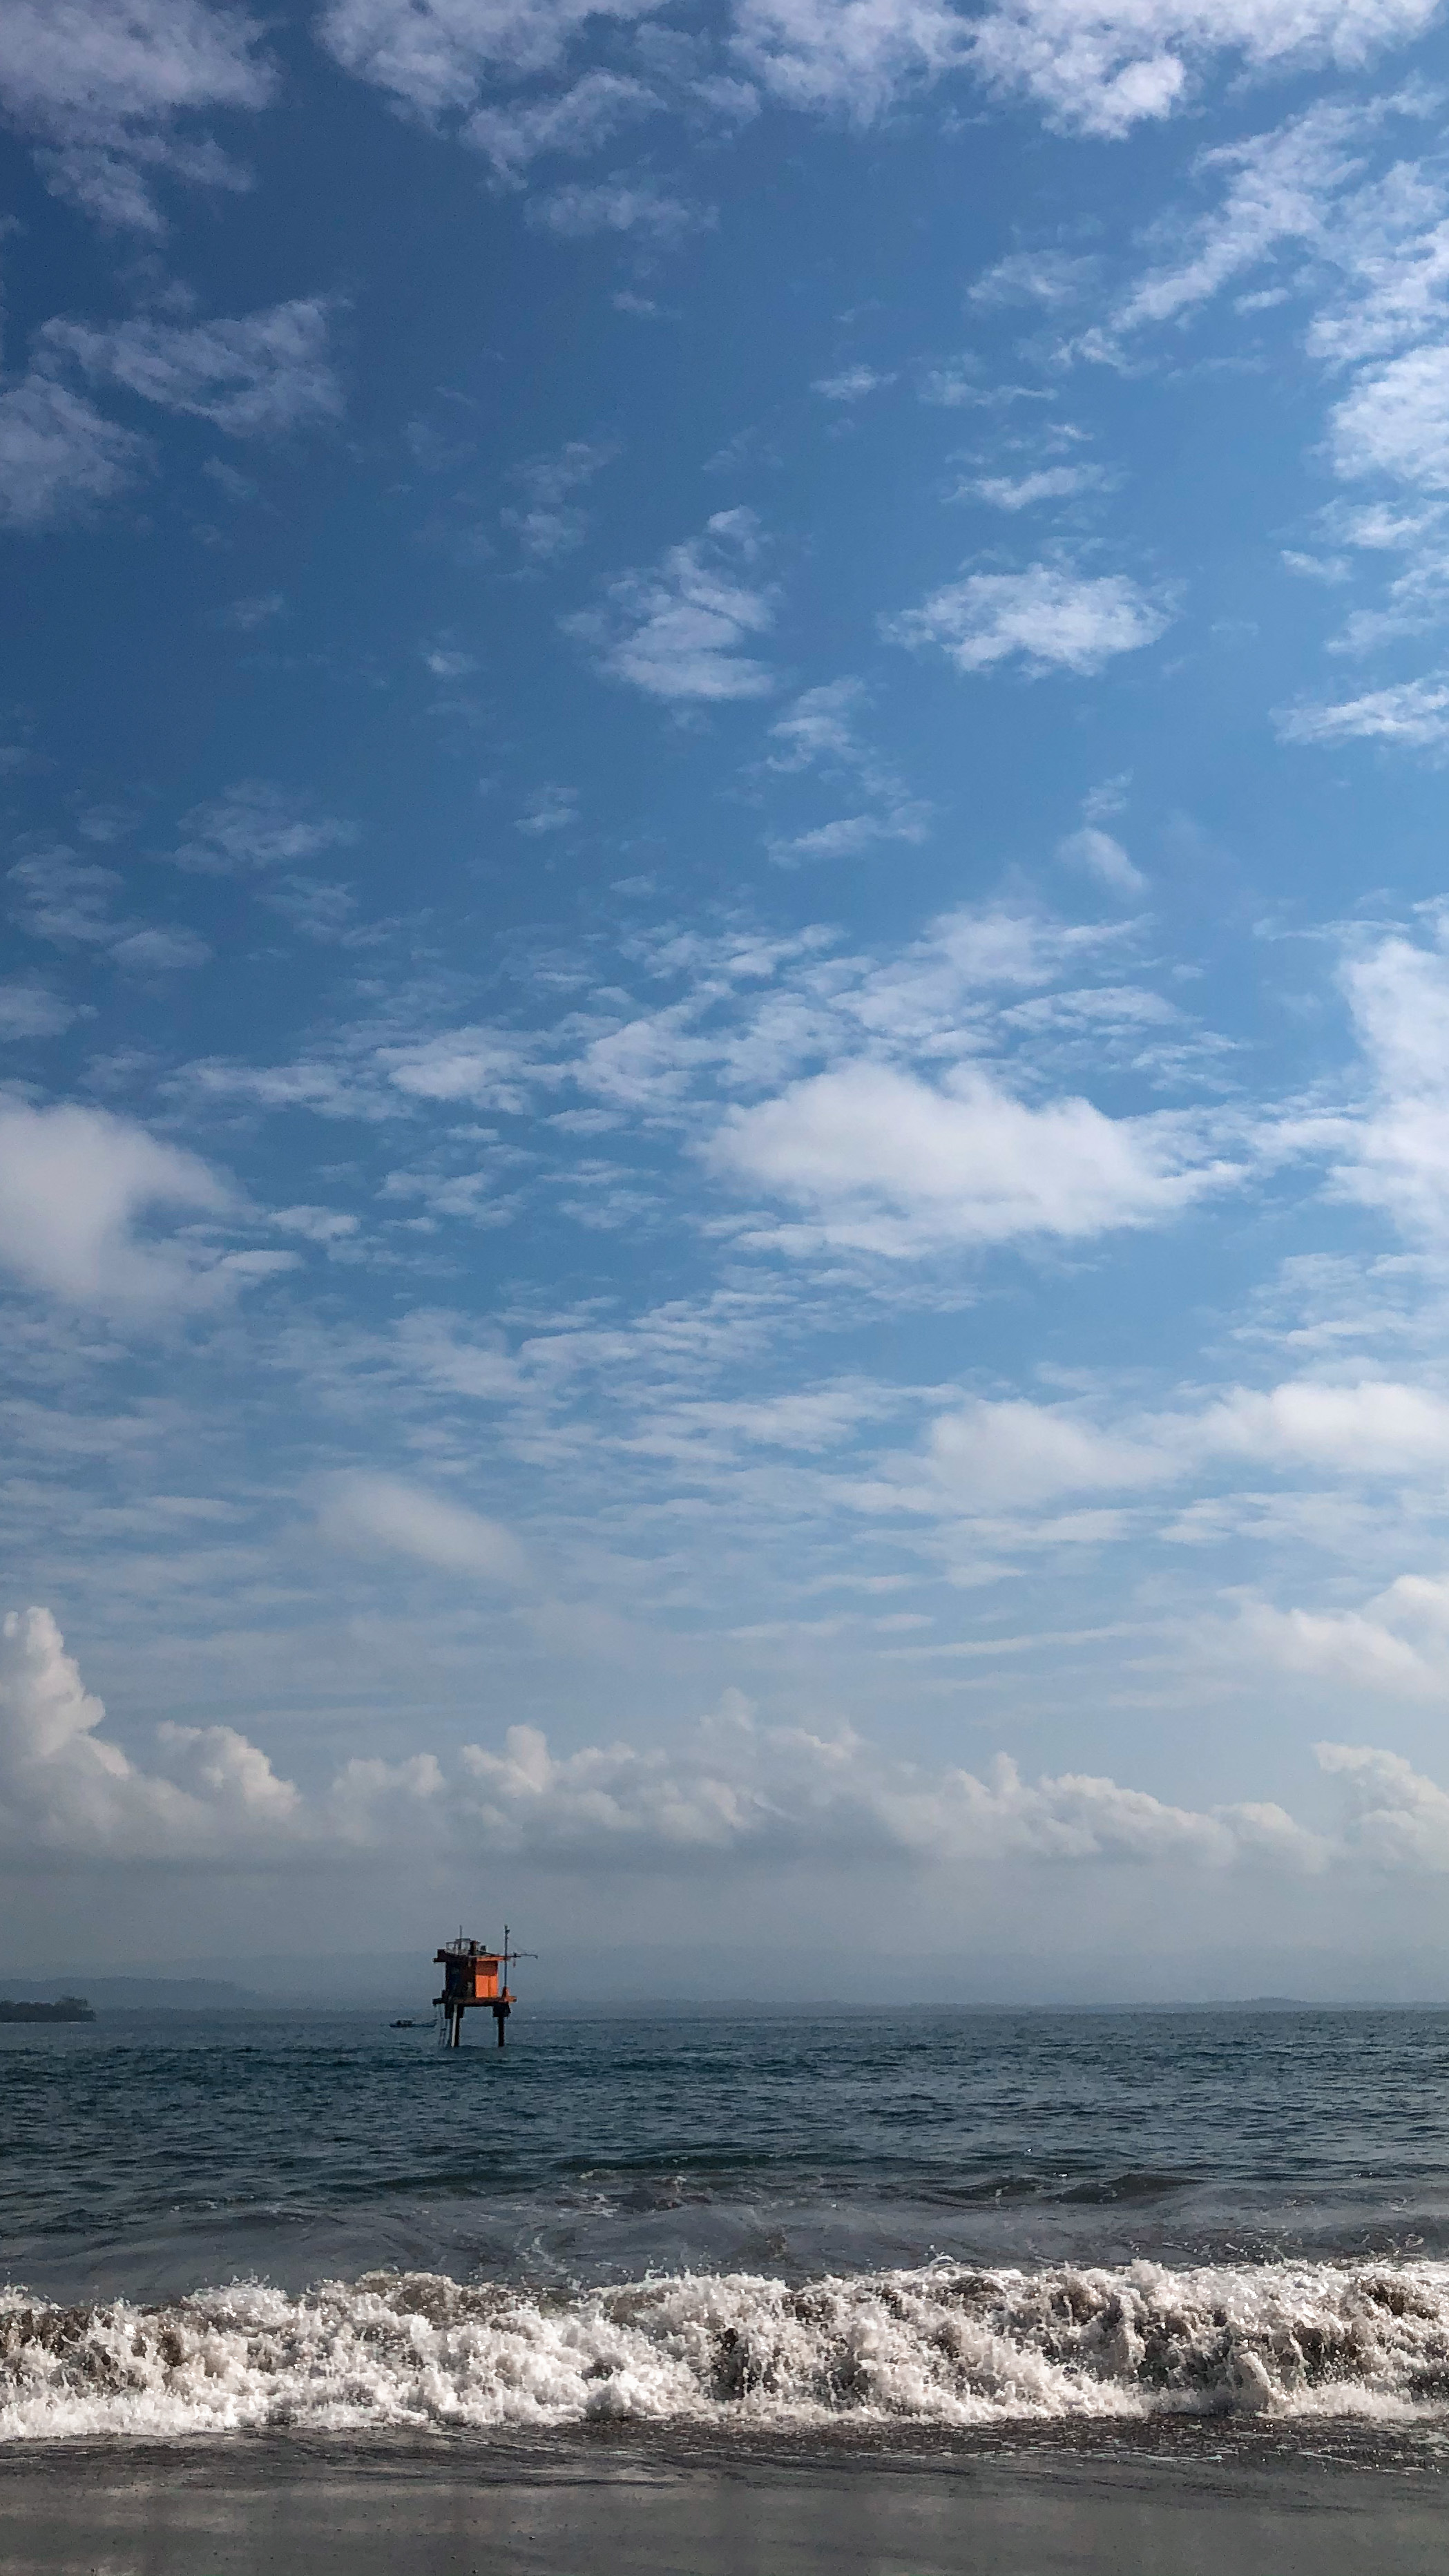
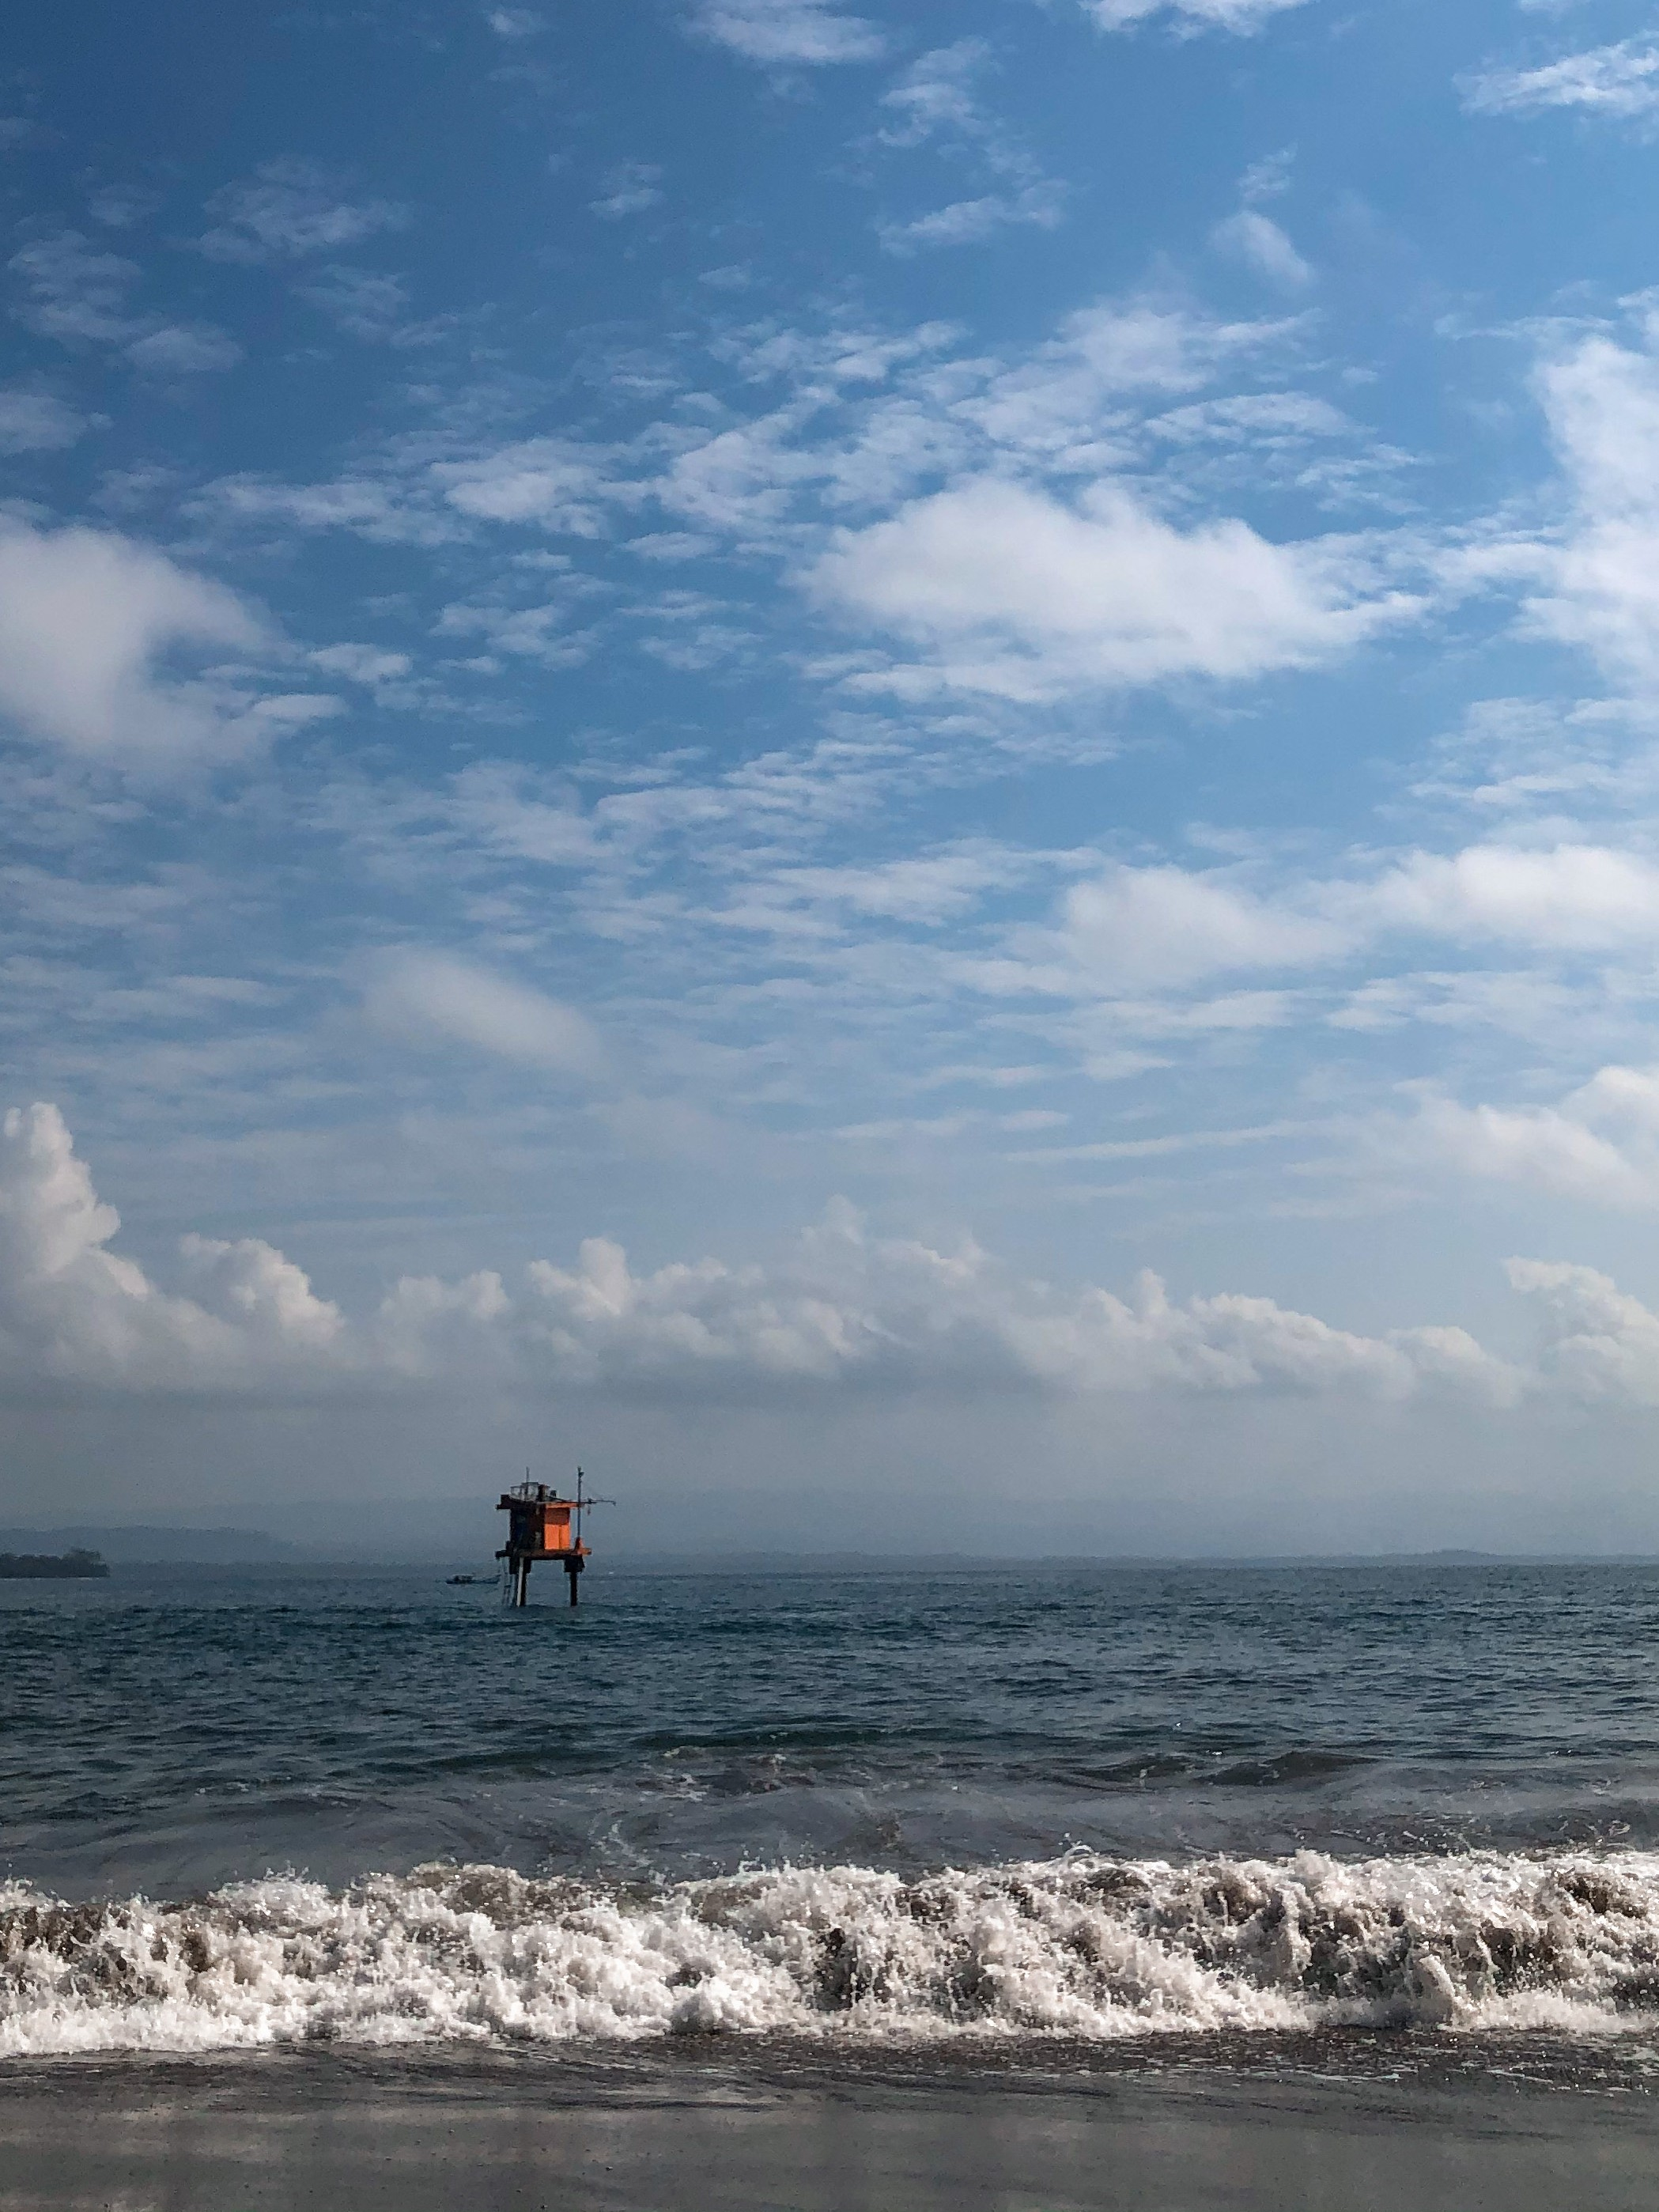
update portfolio

diff --git a/components/PersonalLife.tsx b/components/PersonalLife.tsx
@@ -7,7 +7,7 @@ import Image from "next/image";
 const personalBio = `Outside of geodesy and geomatics, I am someone who finds joy in staying curious and present. Growing up in Indonesia, I have always been drawn to the outdoors, whether it is hiking across Java’s volcanic landscapes, exploring coastlines, or simply taking long walks around Bandung’s hillside neighborhoods.
 
                     Beyond nature and travel, music has also become an important part of my daily life, offering both creativity and balance outside of work. I enjoy discovering different genres, attending live performances, performing in live stages, and experiencing how music connects people across cultures and experiences.
-                    
+
                     I believe that the best engineers are also well-rounded people who are curious about the world beyond their field, empathetic to the communities their work impacts, and always willing to learn something new.`;
 
 const hobbyCategories = [
@@ -100,30 +100,28 @@ export default function PersonalLife() {
 
   return (
     <section
-      id="personal"
-      className="relative scroll-mt-[70px] overflow-hidden border-t-4 border-orange-300 bg-orange-100 bg-[linear-gradient(to_right,#b4530940_1px,transparent_1px),linear-gradient(to_bottom,#b4530940_1px,transparent_1px)] bg-[size:150px_150px] py-10 text-white"
+      className="relative scroll-mt-[70px] py-10 text-white"
     >
-
-        <div className="relative z-10 mx-auto max-w-6xl px-6">
-          <AnimateOnScroll>
-            <div className="mb-4 flex justify-center">
+      
+      <div className="relative z-10 mx-auto max-w-6xl px-6">
+        <AnimateOnScroll>
+          <div className="mb-5 flex justify-center">
+            <div className="rounded-2xl border border-orange-200/80 bg-white/30 px-6 py-3 shadow-lg backdrop-blur-sm">
               <h2 className="section-title no-gradient-line text-orange-700">
-                <span className="inline-block bg-gradient-to-r from-orange-700 to-orange-400 bg-clip-text text-transparent">
+                <span className="inline-block bg-gradient-to-r from-orange-700 to-orange-400 bg-clip-text text-transparent drop-shadow-md">
                   Personal Life
                 </span>
               </h2>
             </div>
-          </AnimateOnScroll>
+          </div>
+        </AnimateOnScroll>
 
         <div className="mx-auto flex w-full max-w-5xl flex-col gap-5">
-
           {/* TOP — Hobby Slider */}
           <AnimateOnScroll delay={100}>
             <div className="flex flex-col gap-3">
-
               {/* Slider */}
               <div className="relative overflow-hidden rounded-3xl border border-orange-200/80 bg-white/30 p-3 shadow-sm backdrop-blur-sm">
-
                 {/* INNER MASK */}
                 <div className="overflow-hidden rounded-2xl">
                   <div
@@ -157,61 +155,62 @@ export default function PersonalLife() {
                     ))}
                   </div>
                 </div>
-
               </div>
 
               {/* Tabs */}
-              <div className="flex justify-center gap-8">
-                {hobbyCategories.map((cat, i) => (
-                  <button
-                    key={cat.id}
-                    onClick={() => handleTabClick(i)}
-                    className="flex flex-col items-center gap-1"
-                  >
-                    <span
-                      className={`text-sm font-medium transition-colors duration-200 ${
-                        activeCategory === i
-                          ? "text-orange-600"
-                          : "text-orange-400 hover:text-orange-500"
-                      }`}
+              <div className="flex justify-center">
+                <div className="flex gap-8 rounded-2xl border border-orange-200/80 bg-white px-6 py-3 shadow-lg backdrop-blur-sm">
+                  {hobbyCategories.map((cat, i) => (
+                    <button
+                      key={cat.id}
+                      onClick={() => handleTabClick(i)}
+                      className="flex flex-col items-center gap-1"
                     >
-                      {cat.label}
-                    </span>
-
-                    <span className="relative h-0.5 w-12 overflow-hidden rounded-full bg-orange-200">
                       <span
-                        className={`absolute left-0 top-0 h-full rounded-full bg-orange-500 ${
-                          activeCategory === i && !paused
-                            ? "animate-progress"
-                            : activeCategory === i
-                            ? "w-full"
-                            : "w-0"
+                        className={`text-sm font-medium transition-colors duration-200 drop-shadow-sm ${
+                          activeCategory === i
+                            ? "text-orange-600"
+                            : "text-orange-400 hover:text-orange-500"
                         }`}
-                        style={
-                          activeCategory === i && !paused
-                            ? {
-                                animationDuration: `${AUTO_INTERVAL}ms`,
-                              }
-                            : undefined
-                        }
-                      />
-                    </span>
-                  </button>
-                ))}
-              </div>
+                      >
+                        {cat.label}
+                      </span>
 
+                      <span className="relative h-0.5 w-12 overflow-hidden rounded-full bg-orange-200">
+                        <span
+                          className={`absolute left-0 top-0 h-full rounded-full bg-orange-500 ${
+                            activeCategory === i && !paused
+                              ? "animate-progress"
+                              : activeCategory === i
+                              ? "w-full"
+                              : "w-0"
+                          }`}
+                          style={
+                            activeCategory === i && !paused
+                              ? {
+                                  animationDuration: `${AUTO_INTERVAL}ms`,
+                                }
+                              : undefined
+                          }
+                        />
+                      </span>
+                    </button>
+                  ))}
+                </div>
+              </div>
             </div>
           </AnimateOnScroll>
 
           {/* BOTTOM — Bio */}
           <AnimateOnScroll delay={200}>
             <div className="rounded-2xl border border-orange-200/80 bg-white/30 p-5 shadow-sm backdrop-blur-sm">
-              <p className="whitespace-pre-line text-sm leading-relaxed text-black/80 md:text-[15px] font-semibold">
+              <p className="whitespace-pre-line text-sm leading-relaxed text-white drop-shadow-md md:text-[15px] font-semibold"
+              style={{ textShadow: "0 2px 4px rgba(0,0,0,0.3)" }}
+              >
                 {personalBio}
               </p>
             </div>
           </AnimateOnScroll>
-
         </div>
       </div>
 
@@ -233,7 +232,7 @@ export default function PersonalLife() {
             />
 
             <button
-              className="absolute -right-16 top-0 text-4xl text-white transition-colors hover:text-orange-300"
+              className="absolute -right-16 top-0 text-4xl text-white drop-shadow-lg transition-colors hover:text-orange-300"
               onClick={() => setSelectedImage(null)}
             >
               ×

diff --git a/components/Footer.tsx b/components/Footer.tsx
@@ -1,14 +1,26 @@
 export default function Footer() {
   const year = new Date().getFullYear();
+
   return (
-    <footer className="bg-orange-900 py-8 text-orange-300">
-      <div className="mx-auto flex max-w-5xl flex-col items-center justify-between gap-3 px-6 sm:flex-row">
-        <p className="text-sm">
-          © {year} <span className="font-semibold text-orange-200">Kamil Hayyunaji Fabriano</span>
-        </p>
-        <p className="text-xs text-orange-400">
-          Geodesy & Geomatics Engineering · Institut Teknologi Bandung
-        </p>
+    <footer className="relative py-8 text-orange-100">
+
+      <div className="relative z-10 mx-auto flex max-w-5xl flex-col items-center justify-between gap-3 px-6 sm:flex-row">
+
+        <div className="rounded-2xl border border-white/20 bg-white/5 px-4 py-2 backdrop-blur-sm">
+          <p className="text-sm">
+            © {year}{" "}
+            <span className="font-semibold text-white">
+              Kamil Hayyunaji Fabriano
+            </span>
+          </p>
+        </div>
+
+        <div className="rounded-2xl border border-white/20 bg-white/5 px-4 py-2 backdrop-blur-sm">
+          <p className="text-xs text-orange-100">
+            Geodesy & Geomatics Engineering · Institut Teknologi Bandung
+          </p>
+        </div>
+
       </div>
     </footer>
   );

diff --git a/app/page.tsx b/app/page.tsx
@@ -11,15 +11,38 @@ export default function Home() {
   return (
     <>
       <Navbar />
+
       <main>
         <Hero />
         <About />
         <Skills />
         <WorkExperience />
         <OrganizationalExperience />
-        <PersonalLife />
+
+        {/* Shared background wrapper */}
+        <div
+          id="personal"
+          className="relative overflow-hidden"
+        >
+          {/* Background image */}
+          <div
+            className="absolute inset-0 bg-cover bg-center"
+            style={{
+              backgroundImage: "url('/images/personal-bg.jpg')",
+            }}
+          />
+
+          {/* Orange overlay */}
+          <div className="absolute inset-0 bg-orange-500/15" />
+
+          {/* Content */}
+          <div className="relative z-10">
+            <PersonalLife />
+            <Footer />
+          </div>
+        </div>
+
       </main>
-      <Footer />
     </>
   );
 }